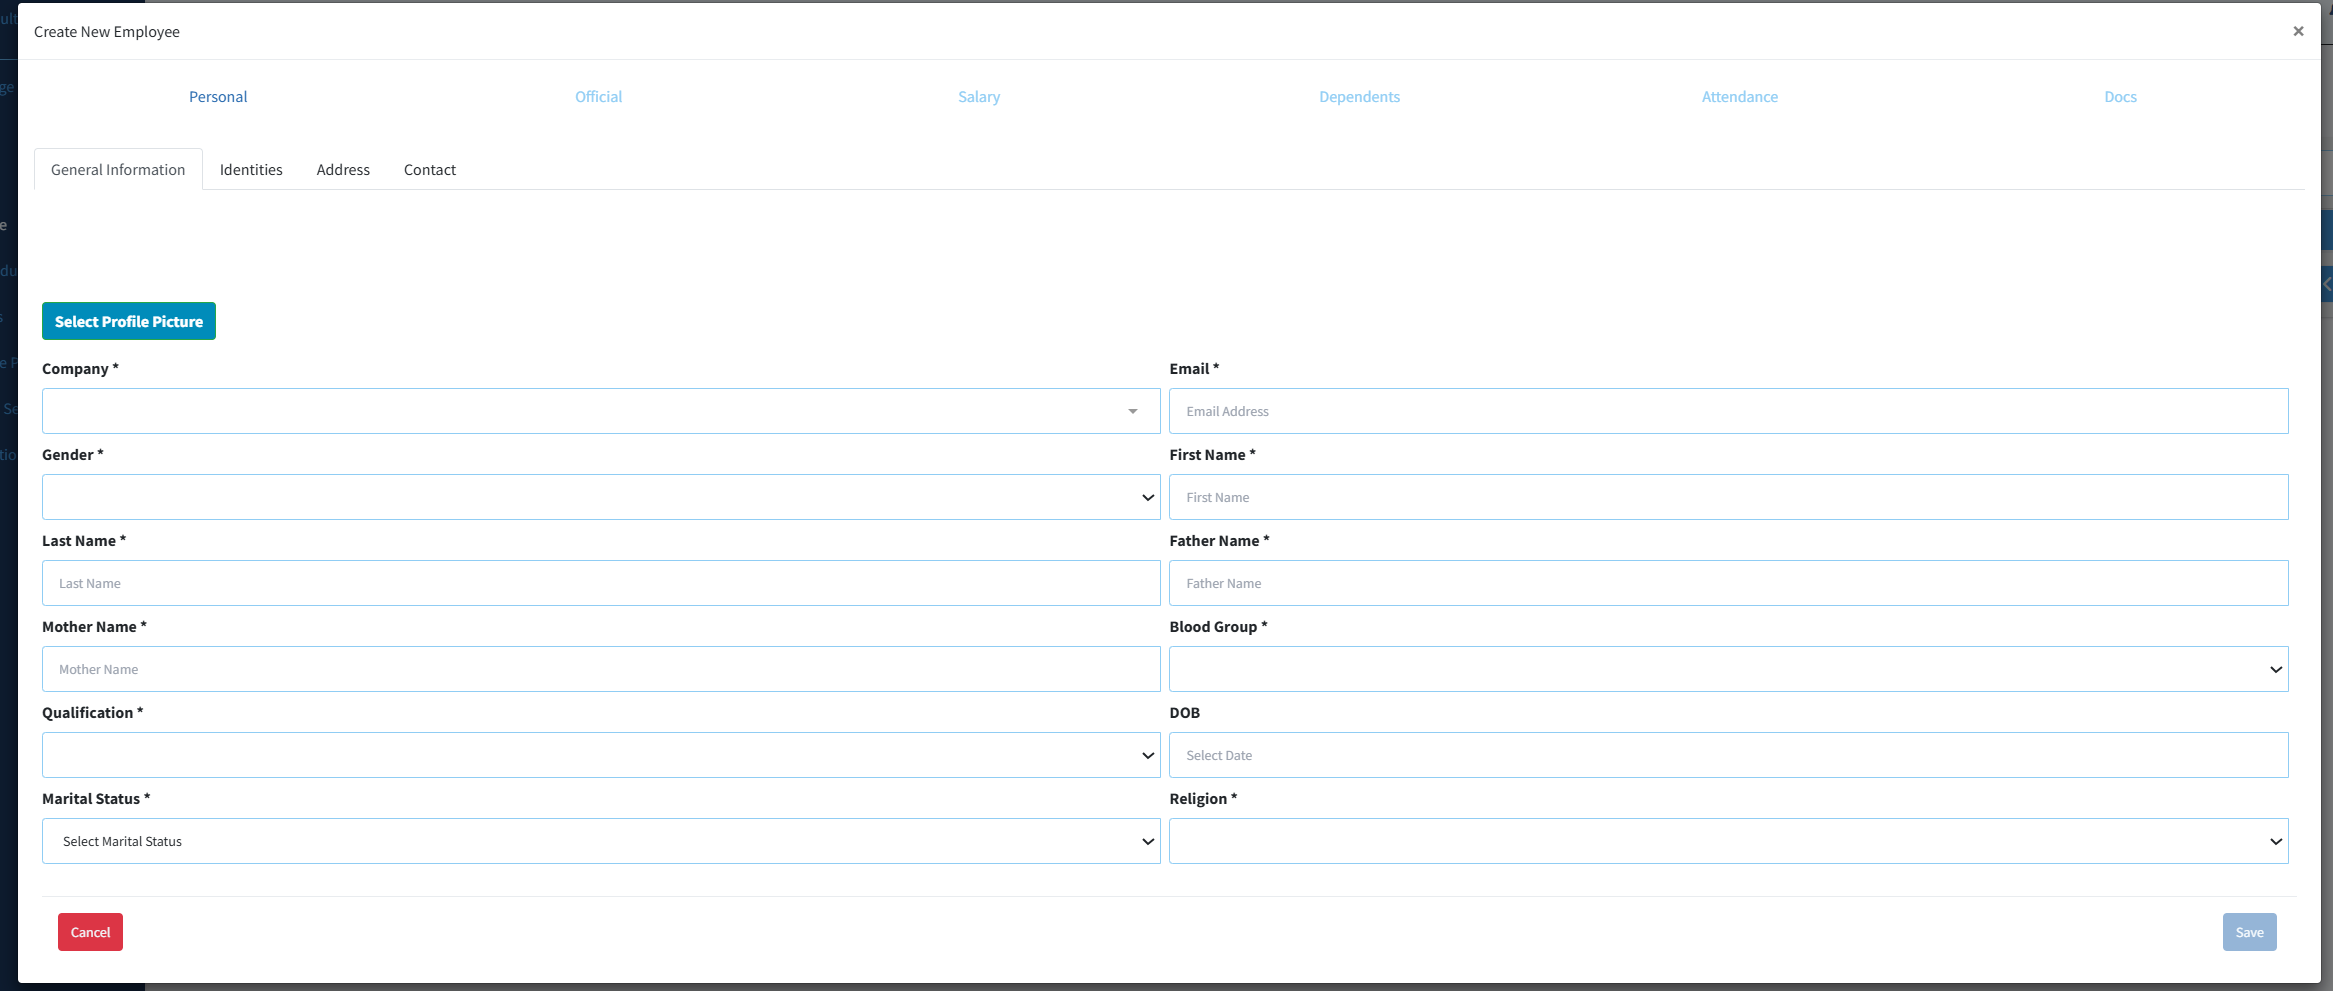
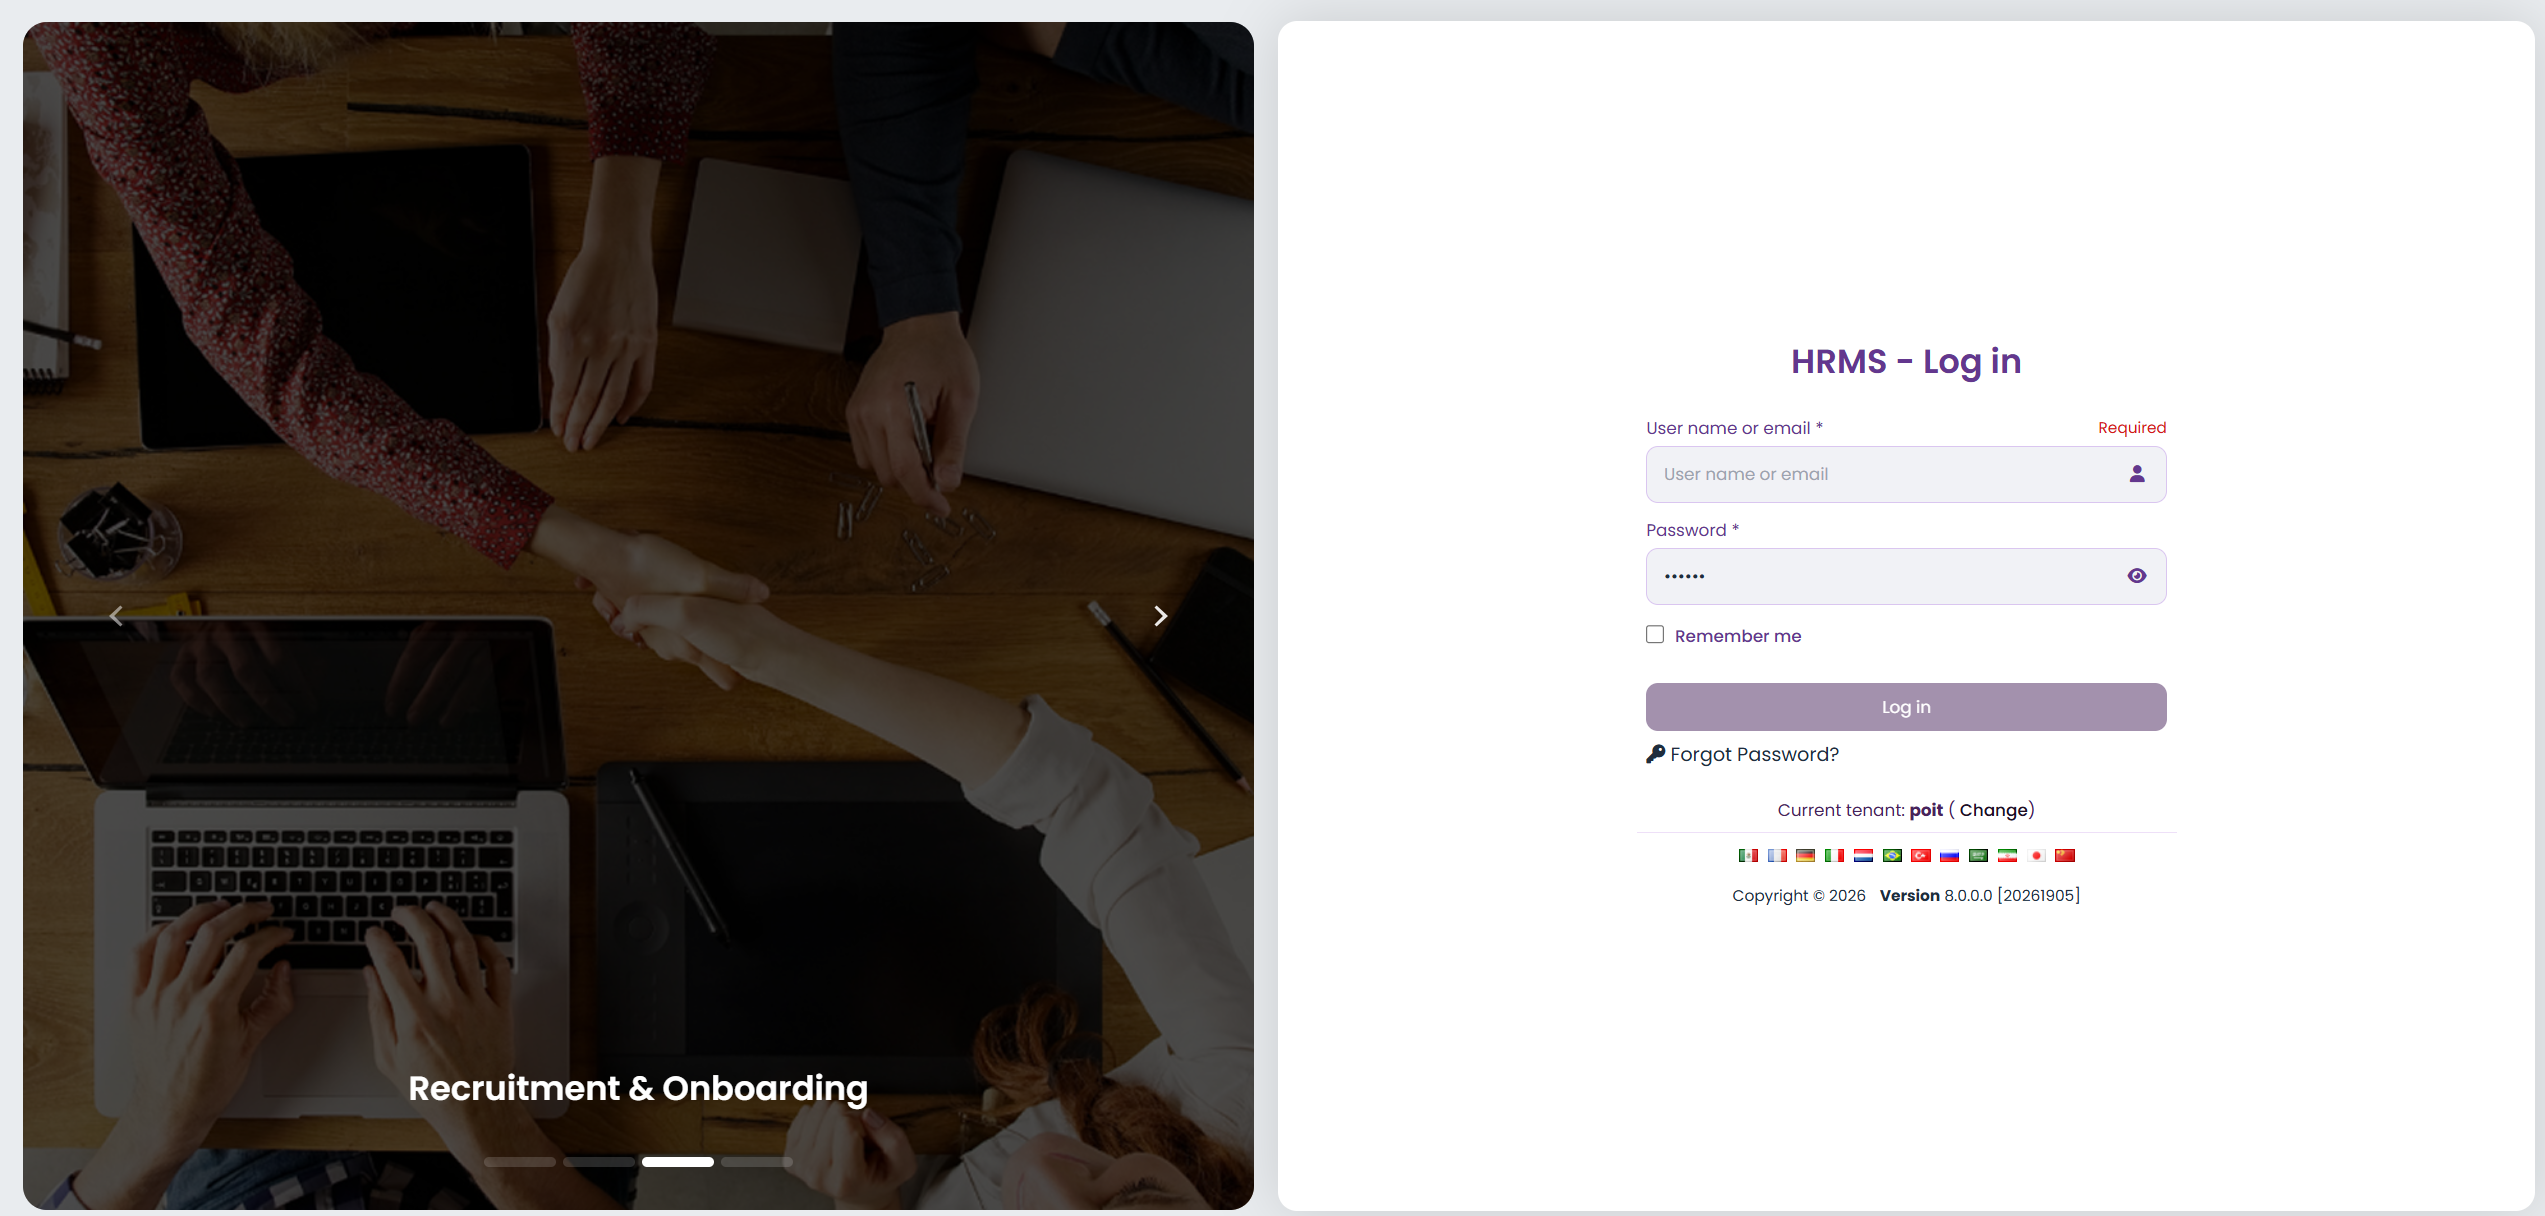
...

diff --git a/src/app/components/home/projects/projects.component.ts b/src/app/components/home/projects/projects.component.ts
@@ -53,16 +53,16 @@ export class ProjectsComponent {
     {
       id: 3,
       name: "HRMS",
-      description: "HR managenemt system which cover all aspects of HR activities.",
+      description: "HR managenemt system a software solution that streamlines employee management, payroll, attendance, recruitment, and HR operations in one platform.",
+      demo: "https://hrmsui.thepointofit.com",
       tools: ["Angular 15", ".net boiler plate", "MS SQL Server", "Git", "Vs Code", "Visual Studio"],
-      demo: "",
       images: [
         "assets/projects/7.png",
         "assets/projects/8.png",
         "assets/projects/9.png",
-        "assets/projects/99.png"
+        "assets/projects/9a.png"
       ],
-      role: "Angular Developer",
+      role: "Full Stack Developer",
       code: ""
     },
     {